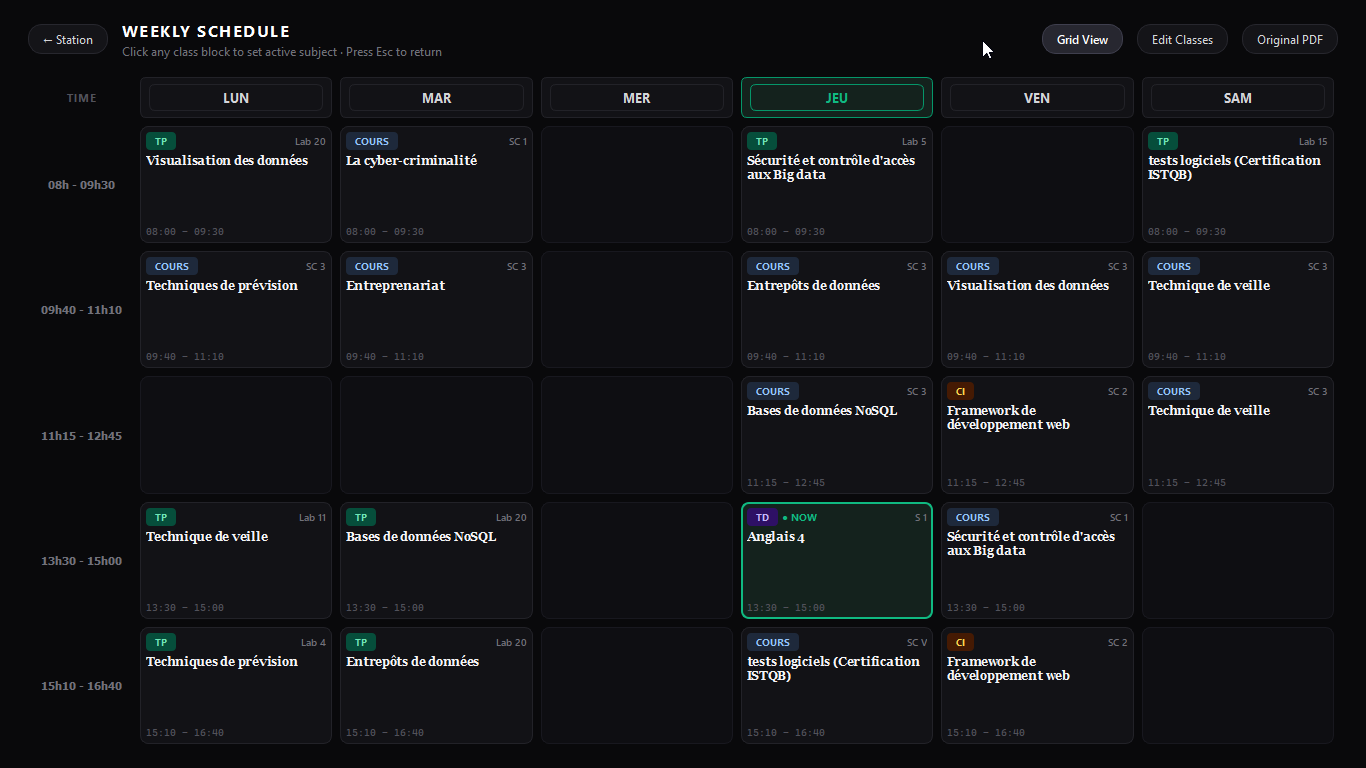
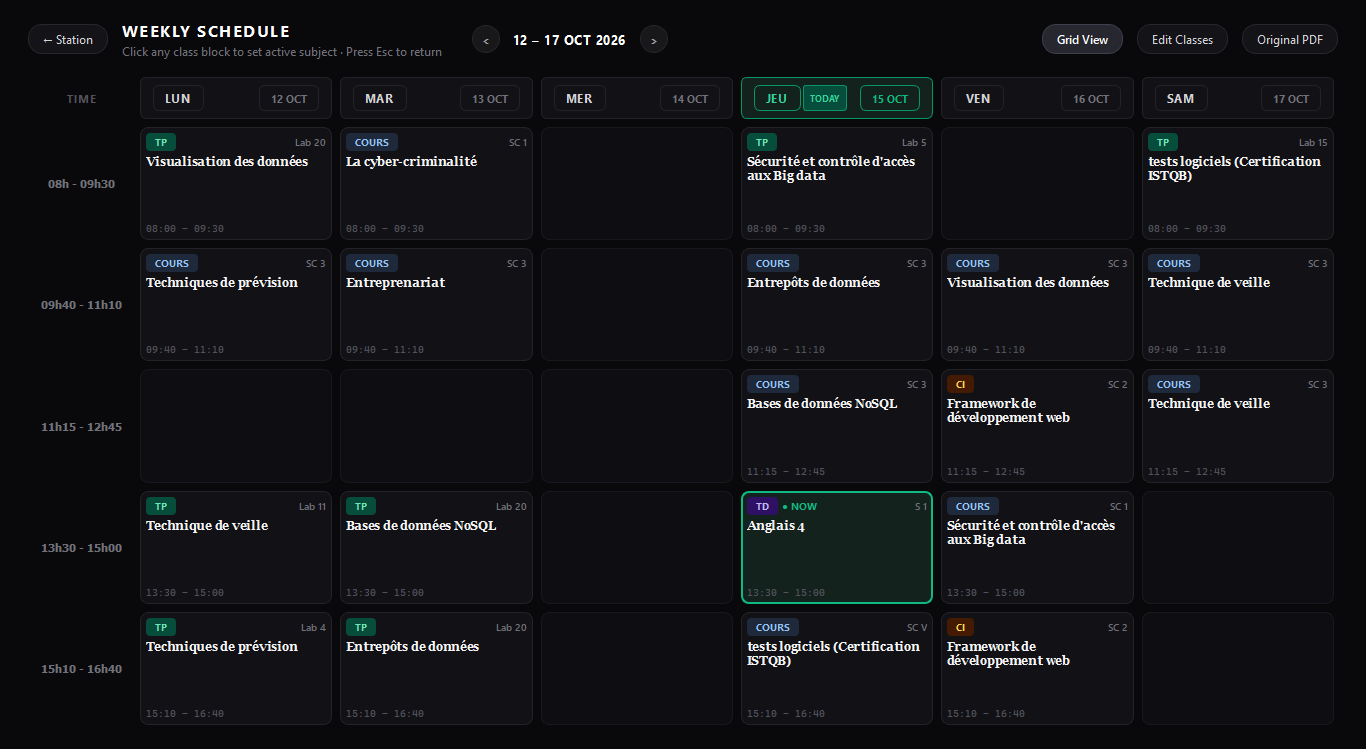
feat(schedule): add date-anchored weekly calendar grid and week navigation
- Add deterministic calendar calculation helpers in ScheduleEngine (`get_week_start`, `get_week_dates`, `format_week_range`, `get_day_date`) supporting boundary-safe academic weeks.
- Implement tactile week navigation bar (`‹`, `›`) with dynamic `Today` shortcut button in ScheduleScreenWidget.
- Upgrade column headers to dual-line cards displaying real calendar dates with prominent emerald `TODAY` highlighting.
- Restrict active session (`● NOW`) highlighting to the current calendar date.
- Add unit test suites in test_engine.py and test_secondary_dialogs.py (31/31 passing).
- Refresh docs/screens/grid_schedual.png and record Milestone 6.11 in PROGRESS.md.

diff --git a/src/study_station/ui/schedule_screen_widget.py b/src/study_station/ui/schedule_screen_widget.py
@@ -5,7 +5,7 @@ university schedule (docs/grid.pdf / Google Calendar) with an inline session edi
 Eliminates floating dialog rims, text-peeking, and modal-on-modal stacking.
 """
 
-from datetime import datetime
+from datetime import date, datetime, timedelta
 from pathlib import Path
 from PySide6.QtCore import QPoint, Qt, QUrl, Signal
 from PySide6.QtGui import QDesktopServices, QFont
@@ -176,6 +176,7 @@ class ScheduleScreenWidget(QWidget):
         self._sessions = list(sessions)
         self._current_subject = current_subject
         self._now = datetime.now()
+        self._current_view_date: date = self._now.date()
 
         self._build_ui()
 
@@ -207,6 +208,83 @@ class ScheduleScreenWidget(QWidget):
         lbl_sub.setStyleSheet("color: #71717A; font-size: 12px;")
         title_col.addWidget(lbl_sub)
         header.addLayout(title_col)
+
+        header.addSpacing(16)
+
+        # Tactile Week Navigator: [ ‹ ] [ 12 – 17 OCT 2026 ] [ › ] [ Today ]
+        self.week_nav_container = QWidget()
+        week_layout = QHBoxLayout(self.week_nav_container)
+        week_layout.setContentsMargins(0, 0, 0, 0)
+        week_layout.setSpacing(6)
+
+        self.btn_prev_week = QPushButton("‹")
+        self.btn_prev_week.setFixedSize(28, 28)
+        self.btn_prev_week.setCursor(Qt.CursorShape.PointingHandCursor)
+        self.btn_prev_week.setStyleSheet("""
+            QPushButton {
+                background: #18181B;
+                color: #A1A1AA;
+                border: 1px solid #27272A;
+                border-radius: 14px;
+                font-size: 16px;
+                font-weight: 700;
+            }
+            QPushButton:hover {
+                background: #27272A;
+                color: #FFFFFF;
+                border-color: #3F3F46;
+            }
+        """)
+        self.btn_prev_week.clicked.connect(self._on_prev_week)
+        week_layout.addWidget(self.btn_prev_week)
+
+        self.lbl_week_range = QLabel(ScheduleEngine.format_week_range(self._current_view_date))
+        self.lbl_week_range.setStyleSheet("color: #FFFFFF; font-size: 13px; font-weight: 700; letter-spacing: 0.5px; padding: 0 4px;")
+        week_layout.addWidget(self.lbl_week_range)
+
+        self.btn_next_week = QPushButton("›")
+        self.btn_next_week.setFixedSize(28, 28)
+        self.btn_next_week.setCursor(Qt.CursorShape.PointingHandCursor)
+        self.btn_next_week.setStyleSheet("""
+            QPushButton {
+                background: #18181B;
+                color: #A1A1AA;
+                border: 1px solid #27272A;
+                border-radius: 14px;
+                font-size: 16px;
+                font-weight: 700;
+            }
+            QPushButton:hover {
+                background: #27272A;
+                color: #FFFFFF;
+                border-color: #3F3F46;
+            }
+        """)
+        self.btn_next_week.clicked.connect(self._on_next_week)
+        week_layout.addWidget(self.btn_next_week)
+
+        self.btn_today = QPushButton("Today")
+        self.btn_today.setCursor(Qt.CursorShape.PointingHandCursor)
+        self.btn_today.setStyleSheet("""
+            QPushButton {
+                background-color: #14221D;
+                color: #34D399;
+                border: 1px solid #059669;
+                border-radius: 12px;
+                padding: 4px 10px;
+                font-size: 11px;
+                font-weight: 700;
+            }
+            QPushButton:hover {
+                background-color: #064E3B;
+                color: #FFFFFF;
+            }
+        """)
+        self.btn_today.clicked.connect(self._on_today_clicked)
+        self.btn_today.hide()
+        week_layout.addWidget(self.btn_today)
+
+        header.addWidget(self.week_nav_container)
 
         header.addStretch()
 
@@ -298,7 +376,39 @@ class ScheduleScreenWidget(QWidget):
         scroll.setWidget(self.grid_container)
         return scroll
 
+    def _on_prev_week(self) -> None:
+        self._current_view_date -= timedelta(days=7)
+        self._refresh_calendar_grid()
+
+    def _on_next_week(self) -> None:
+        self._current_view_date += timedelta(days=7)
+        self._refresh_calendar_grid()
+
+    def _on_today_clicked(self) -> None:
+        self._current_view_date = datetime.now().date()
+        self._refresh_calendar_grid()
+
+    @property
+    def current_view_date(self) -> date:
+        return self._current_view_date
+
+    def set_view_date(self, target_date: date) -> None:
+        self._current_view_date = target_date
+        self._refresh_calendar_grid()
+
     def _refresh_calendar_grid(self) -> None:
+        # Update week range label and today button
+        week_str = ScheduleEngine.format_week_range(self._current_view_date)
+        if hasattr(self, "lbl_week_range"):
+            self.lbl_week_range.setText(week_str)
+
+        is_current_week = (
+            ScheduleEngine.get_week_start(self._current_view_date)
+            == ScheduleEngine.get_week_start(datetime.now().date())
+        )
+        if hasattr(self, "btn_today"):
+            self.btn_today.setVisible(not is_current_week)
+
         # Clear existing
         while self.grid_layout.count():
             item = self.grid_layout.takeAt(0)
@@ -313,24 +423,54 @@ class ScheduleScreenWidget(QWidget):
         lbl_corner.setStyleSheet("color: #52525B; font-size: 11px; font-weight: 800; letter-spacing: 1px;")
         self.grid_layout.addWidget(lbl_corner, 0, 0)
 
-        # Day Headers (Col 1..6)
-        current_day_idx = self._now.weekday()
+        # Day Headers (Col 1..6) with Real Dates
+        week_dates = ScheduleEngine.get_week_dates(self._current_view_date, days_count=6)
+        today_date = datetime.now().date()
+
         for col_idx, (day_code, _) in enumerate(self.DAYS, start=1):
-            is_today = (col_idx - 1) == current_day_idx
-            today_color = "color: #10B981;" if is_today else "color: #D4D4D8;"
-            today_bg = "background-color: #14221D; border: 1px solid #059669;" if is_today else "background-color: #121216; border: 1px solid #222228;"
+            col_date = week_dates[col_idx - 1]
+            is_today = (col_date == today_date)
+
+            today_color = "color: #34D399;" if is_today else "color: #D4D4D8;"
+            date_num_color = "color: #10B981;" if is_today else "color: #71717A;"
+            today_bg = (
+                "background-color: #14221D; border: 1px solid #059669;"
+                if is_today
+                else "background-color: #121216; border: 1px solid #222228;"
+            )
 
             day_box = QFrame()
-            day_box.setStyleSheet(f"{today_bg}; border-radius: 6px; padding: 4px 6px;")
+            day_box.setStyleSheet(f"{today_bg}; border-radius: 6px; padding: 4px 8px;")
             day_box_layout = QVBoxLayout(day_box)
-            day_box_layout.setContentsMargins(2, 2, 2, 2)
-            day_box_layout.setSpacing(0)
+            day_box_layout.setContentsMargins(4, 3, 4, 3)
+            day_box_layout.setSpacing(2)
+
+            top_row = QHBoxLayout()
+            top_row.setContentsMargins(0, 0, 0, 0)
 
             lbl_day = QLabel(day_code.upper())
-            lbl_day.setAlignment(Qt.AlignmentFlag.AlignCenter)
-            lbl_day.setStyleSheet(f"{today_color}; font-size: 13px; font-weight: 800;")
-            day_box_layout.addWidget(lbl_day)
+            lbl_day.setStyleSheet(f"{today_color}; font-size: 12px; font-weight: 800; letter-spacing: 0.5px;")
+            top_row.addWidget(lbl_day)
 
+            if is_today:
+                lbl_badge = QLabel("TODAY")
+                lbl_badge.setStyleSheet("""
+                    background-color: #064E3B;
+                    color: #34D399;
+                    font-size: 9px;
+                    font-weight: 800;
+                    padding: 1px 4px;
+                    border-radius: 3px;
+                """)
+                top_row.addWidget(lbl_badge)
+
+            top_row.addStretch()
+
+            lbl_num = QLabel(f"{col_date.day:02d} {col_date.strftime('%b').upper()}")
+            lbl_num.setStyleSheet(f"{date_num_color}; font-size: 11px; font-weight: 700;")
+            top_row.addWidget(lbl_num)
+
+            day_box_layout.addLayout(top_row)
             self.grid_layout.addWidget(day_box, 0, col_idx)
 
         # Slot Rows (Row 1..5)
@@ -342,6 +482,9 @@ class ScheduleScreenWidget(QWidget):
             self.grid_layout.addWidget(time_lbl, row_idx, 0)
 
             for col_idx, (day_code, _) in enumerate(self.DAYS, start=1):
+                col_date = week_dates[col_idx - 1]
+                is_today = (col_date == today_date)
+
                 matching = [
                     s for s in self._sessions
                     if s.day.lower() == day_code.lower()
@@ -350,9 +493,9 @@ class ScheduleScreenWidget(QWidget):
 
                 if matching:
                     session = matching[0]
-                    now_str = self._now.strftime("%H:%M")
+                    now_str = datetime.now().strftime("%H:%M")
                     is_current_session = (
-                        (col_idx - 1) == current_day_idx
+                        is_today
                         and session.time_slot.start <= now_str <= session.time_slot.end
                     )
                     card = ClassGridCard(session, is_current=is_current_session)

diff --git a/src/study_station/core/engine.py b/src/study_station/core/engine.py
@@ -97,6 +97,55 @@ class ScheduleEngine:
         """Return sorted list of distinct subject names in timetable."""
         return sorted({s.subject.name for s in self.sessions})
 
+    @classmethod
+    def get_week_start(cls, ref_date: date | None = None) -> date:
+        """Return the Monday date of the week containing ref_date (defaults to today)."""
+        d = ref_date or date.today()
+        return d - timedelta(days=d.weekday())
+
+    @classmethod
+    def get_week_dates(cls, ref_date: date | None = None, days_count: int = 6) -> list[date]:
+        """Return list of dates for the academic week starting on Monday.
+
+        Args:
+            ref_date: Any date within the target week.
+            days_count: Number of days in academic week (default 6: Monday to Saturday).
+        """
+        monday = cls.get_week_start(ref_date)
+        return [monday + timedelta(days=i) for i in range(days_count)]
+
+    @classmethod
+    def format_week_range(cls, ref_date: date | None = None, days_count: int = 6) -> str:
+        """Return a formatted string representing the week range.
+
+        Examples:
+            "12 – 17 OCT 2026"
+            "28 SEP – 03 OCT 2026"
+            "28 DEC 2026 – 02 JAN 2027"
+        """
+        dates = cls.get_week_dates(ref_date, days_count=days_count)
+        start_d = dates[0]
+        end_d = dates[-1]
+
+        month_start = start_d.strftime("%b").upper()
+        month_end = end_d.strftime("%b").upper()
+
+        if start_d.year != end_d.year:
+            return f"{start_d.day:02d} {month_start} {start_d.year} – {end_d.day:02d} {month_end} {end_d.year}"
+        elif start_d.month != end_d.month:
+            return f"{start_d.day:02d} {month_start} – {end_d.day:02d} {month_end} {start_d.year}"
+        else:
+            return f"{start_d.day:02d} – {end_d.day:02d} {month_start} {start_d.year}"
+
+    @classmethod
+    def get_day_date(cls, day_code: str, ref_date: date | None = None) -> date | None:
+        """Return the specific date for a given day code ('Lun', 'Mar', etc.) in ref_date's week."""
+        idx = DAY_INDEX_MAP.get(day_code.capitalize())
+        if idx is None:
+            return None
+        monday = cls.get_week_start(ref_date)
+        return monday + timedelta(days=idx)
+
     def get_session_datetime(self, session: AcademicSession, ref_date: date) -> tuple[datetime, datetime]:
         """Convert a session to actual start and end datetimes for the week of ref_date."""
         monday = ref_date - timedelta(days=ref_date.weekday())

diff --git a/tests/test_engine.py b/tests/test_engine.py
@@ -116,6 +116,40 @@ class TestScheduleEngine(unittest.TestCase):
         self.assertIn("Math", names)
 
 
+    def test_calendar_week_dates(self) -> None:
+        # 2026-10-15 is a Thursday
+        d = date(2026, 10, 15)
+        mon = ScheduleEngine.get_week_start(d)
+        self.assertEqual(mon, date(2026, 10, 12))
+
+        # 6-day academic week (Mon-Sat)
+        week_dates = ScheduleEngine.get_week_dates(d, days_count=6)
+        self.assertEqual(len(week_dates), 6)
+        self.assertEqual(week_dates[0], date(2026, 10, 12))
+        self.assertEqual(week_dates[-1], date(2026, 10, 17))
+
+        # Check day date lookup
+        self.assertEqual(ScheduleEngine.get_day_date("Jeu", d), date(2026, 10, 15))
+        self.assertEqual(ScheduleEngine.get_day_date("Lun", d), date(2026, 10, 12))
+        self.assertEqual(ScheduleEngine.get_day_date("Sam", d), date(2026, 10, 17))
+        self.assertIsNone(ScheduleEngine.get_day_date("InvalidDay", d))
+
+    def test_format_week_range(self) -> None:
+        # Same month
+        d1 = date(2026, 10, 15)
+        self.assertEqual(ScheduleEngine.format_week_range(d1), "12 – 17 OCT 2026")
+
+        # Cross month (Sep - Oct)
+        d2 = date(2026, 10, 1)  # Thursday
+        # Mon is Sep 28, Sat is Oct 3
+        self.assertEqual(ScheduleEngine.format_week_range(d2), "28 SEP – 03 OCT 2026")
+
+        # Cross year (Dec 2026 - Jan 2027)
+        d3 = date(2026, 12, 31)  # Thursday
+        # Mon is Dec 28 2026, Sat is Jan 02 2027
+        self.assertEqual(ScheduleEngine.format_week_range(d3), "28 DEC 2026 – 02 JAN 2027")
+
+
 if __name__ == "__main__":
     unittest.main()
 

diff --git a/tests/test_secondary_dialogs.py b/tests/test_secondary_dialogs.py
@@ -80,6 +80,38 @@ class TestSecondaryDialogs(unittest.TestCase):
         dialog._on_delete()
         self.assertEqual(dialog.table.rowCount(), 1)
 
+    def test_schedule_screen_widget_week_navigation(self) -> None:
+        from datetime import date, timedelta
+        from study_station.ui.schedule_screen_widget import ScheduleScreenWidget
+
+        sessions = [
+            AcademicSession(
+                day="Lun",
+                time_slot=TimeSlot("08:00", "09:30"),
+                subject=Subject("Data Vis", "TP"),
+                location="Lab 20",
+            )
+        ]
+        widget = ScheduleScreenWidget(sessions=sessions)
+        initial_date = widget.current_view_date
+        self.assertEqual(initial_date, date.today())
+        self.assertFalse(widget.btn_today.isVisible())
+
+        # Next week navigation
+        widget.btn_next_week.click()
+        self.assertEqual(widget.current_view_date, initial_date + timedelta(days=7))
+        self.assertFalse(widget.btn_today.isHidden())
+
+        # Jump back to Today
+        widget.btn_today.click()
+        self.assertEqual(widget.current_view_date, initial_date)
+        self.assertTrue(widget.btn_today.isHidden())
+
+        # Previous week navigation
+        widget.btn_prev_week.click()
+        self.assertEqual(widget.current_view_date, initial_date - timedelta(days=7))
+        self.assertFalse(widget.btn_today.isHidden())
+
 
 if __name__ == "__main__":
     unittest.main()

diff --git a/PROGRESS.md b/PROGRESS.md
@@ -265,7 +265,24 @@ Study Station is a minimalist, schedule-aware study companion for Linux (Fedora 
 - [x] **Verification & Tests:**
   - Added dedicated unit test suite in [`tests/test_focus_ring_gauge.py`](file:///c:/Users/marj/Music/Study%20Station/tests/test_focus_ring_gauge.py).
   - 100% test pass rate maintained: 28/28 unit tests passing.
-  - Updated screen capture in [`docs/screens/focus.png`](file:///c:/Users/marj/Music/Study%20Station/docs/screens/focus.png).
+### Milestone 6.11: Date-Anchored Calendar Grid & Week Navigator (Phase B — Part 1) `[COMPLETED]`
+- [x] **Deterministic Calendar Engine Calculations:**
+  - Added `get_week_start(ref_date)` returning Monday date across months and years.
+  - Added `get_week_dates(ref_date, days_count=6)` computing the 6 academic calendar dates (Monday to Saturday).
+  - Added `format_week_range(ref_date)` producing formatted headers (e.g. `12 – 17 OCT 2026`, `28 SEP – 03 OCT 2026`).
+  - Added `get_day_date(day_code, ref_date)` resolving specific calendar dates for any weekday abbreviation.
+- [x] **Visual Calendar Navigation Bar:**
+  - Added tactical week switcher in the header: `[ ‹ ]`, `12 – 17 OCT 2026`, `[ › ]`.
+  - Added dynamic `[ Today ]` shortcut button that illuminates when looking at past/future weeks and auto-hides when on the current week.
+- [x] **Calendar Day Columns with Real Dates:**
+  - Transformed static day headers into dual-line cards showing Day Code (`LUN`, `MAR`...) and Real Calendar Date (`12 OCT`, `13 OCT`...).
+  - Today's column is highlighted with an emerald glowing border (`border: 1px solid #059669; background: #14221D;`), bright green typography, and an emerald `TODAY` badge.
+  - Active session indicator (`● NOW`) only triggers when viewing the actual current day.
+- [x] **Verification & Test Suite:**
+  - Added unit test coverage for date calculations in [`tests/test_engine.py`](file:///c:/Users/marj/Music/Study%20Station/tests/test_engine.py).
+  - Added unit test for week navigation in [`tests/test_secondary_dialogs.py`](file:///c:/Users/marj/Music/Study%20Station/tests/test_secondary_dialogs.py).
+  - 100% test pass rate maintained: 31/31 unit tests passing.
+  - Refreshed screen capture in [`docs/screens/grid_schedual.png`](file:///c:/Users/marj/Music/Study%20Station/docs/screens/grid_schedual.png).
 
 ---
 
